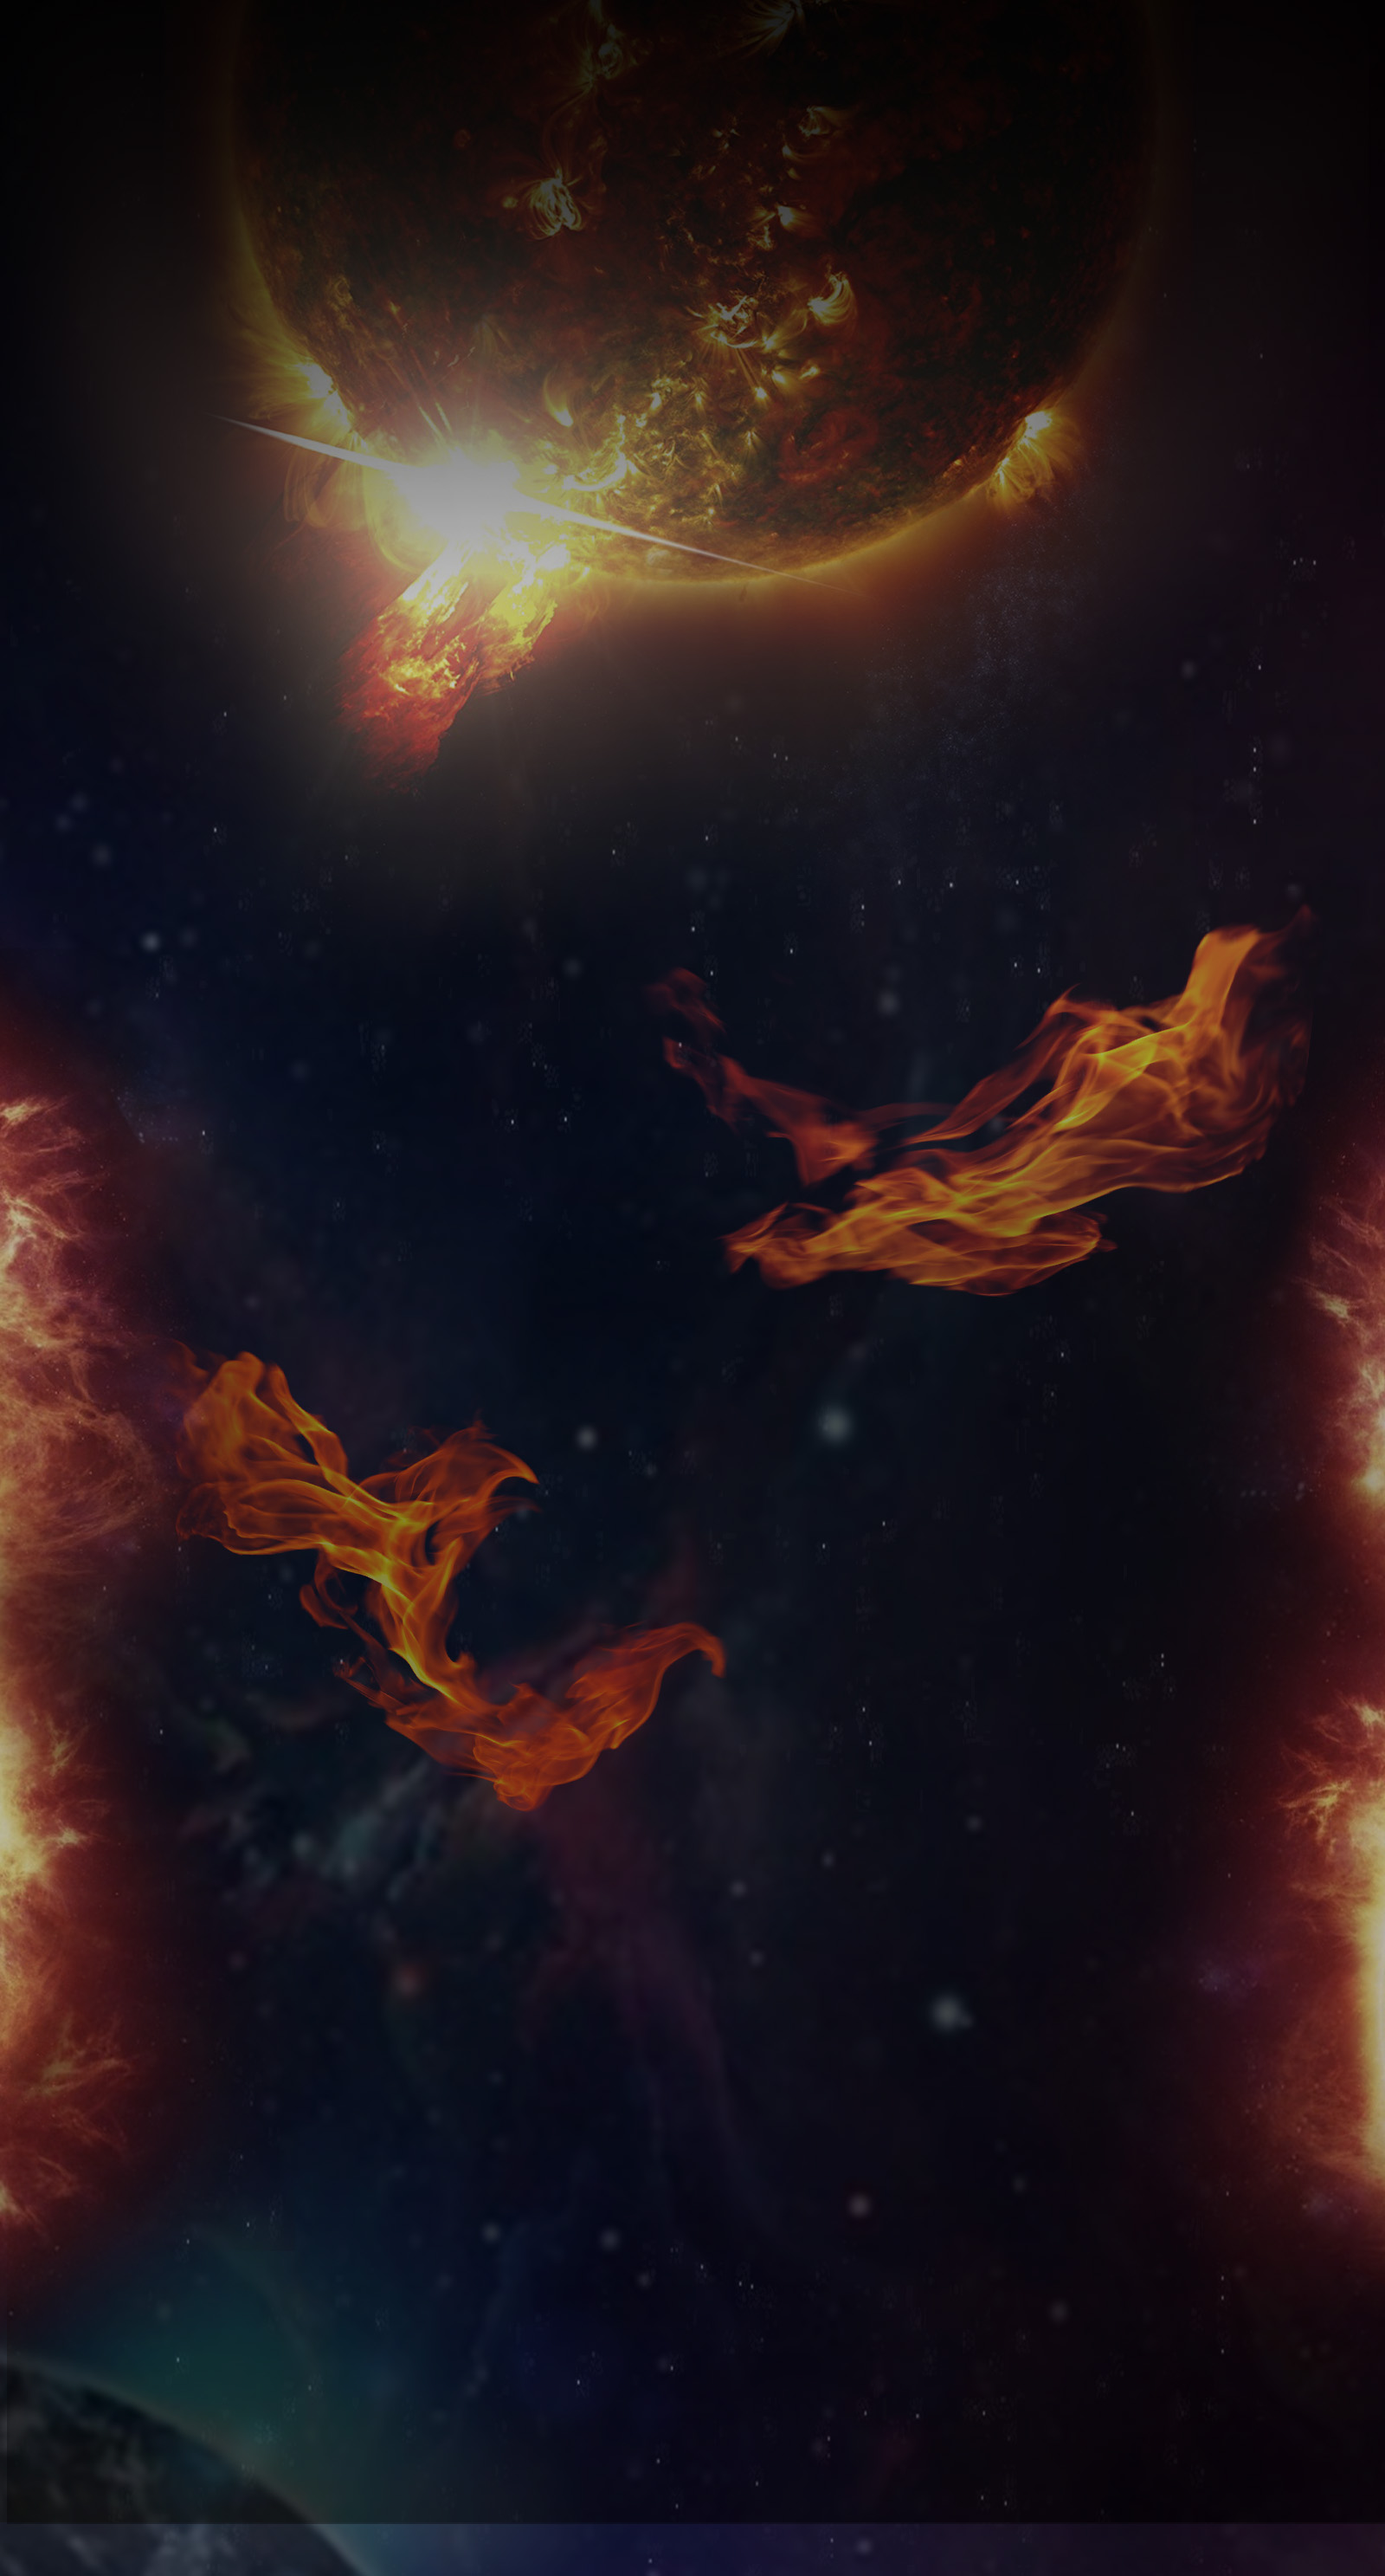
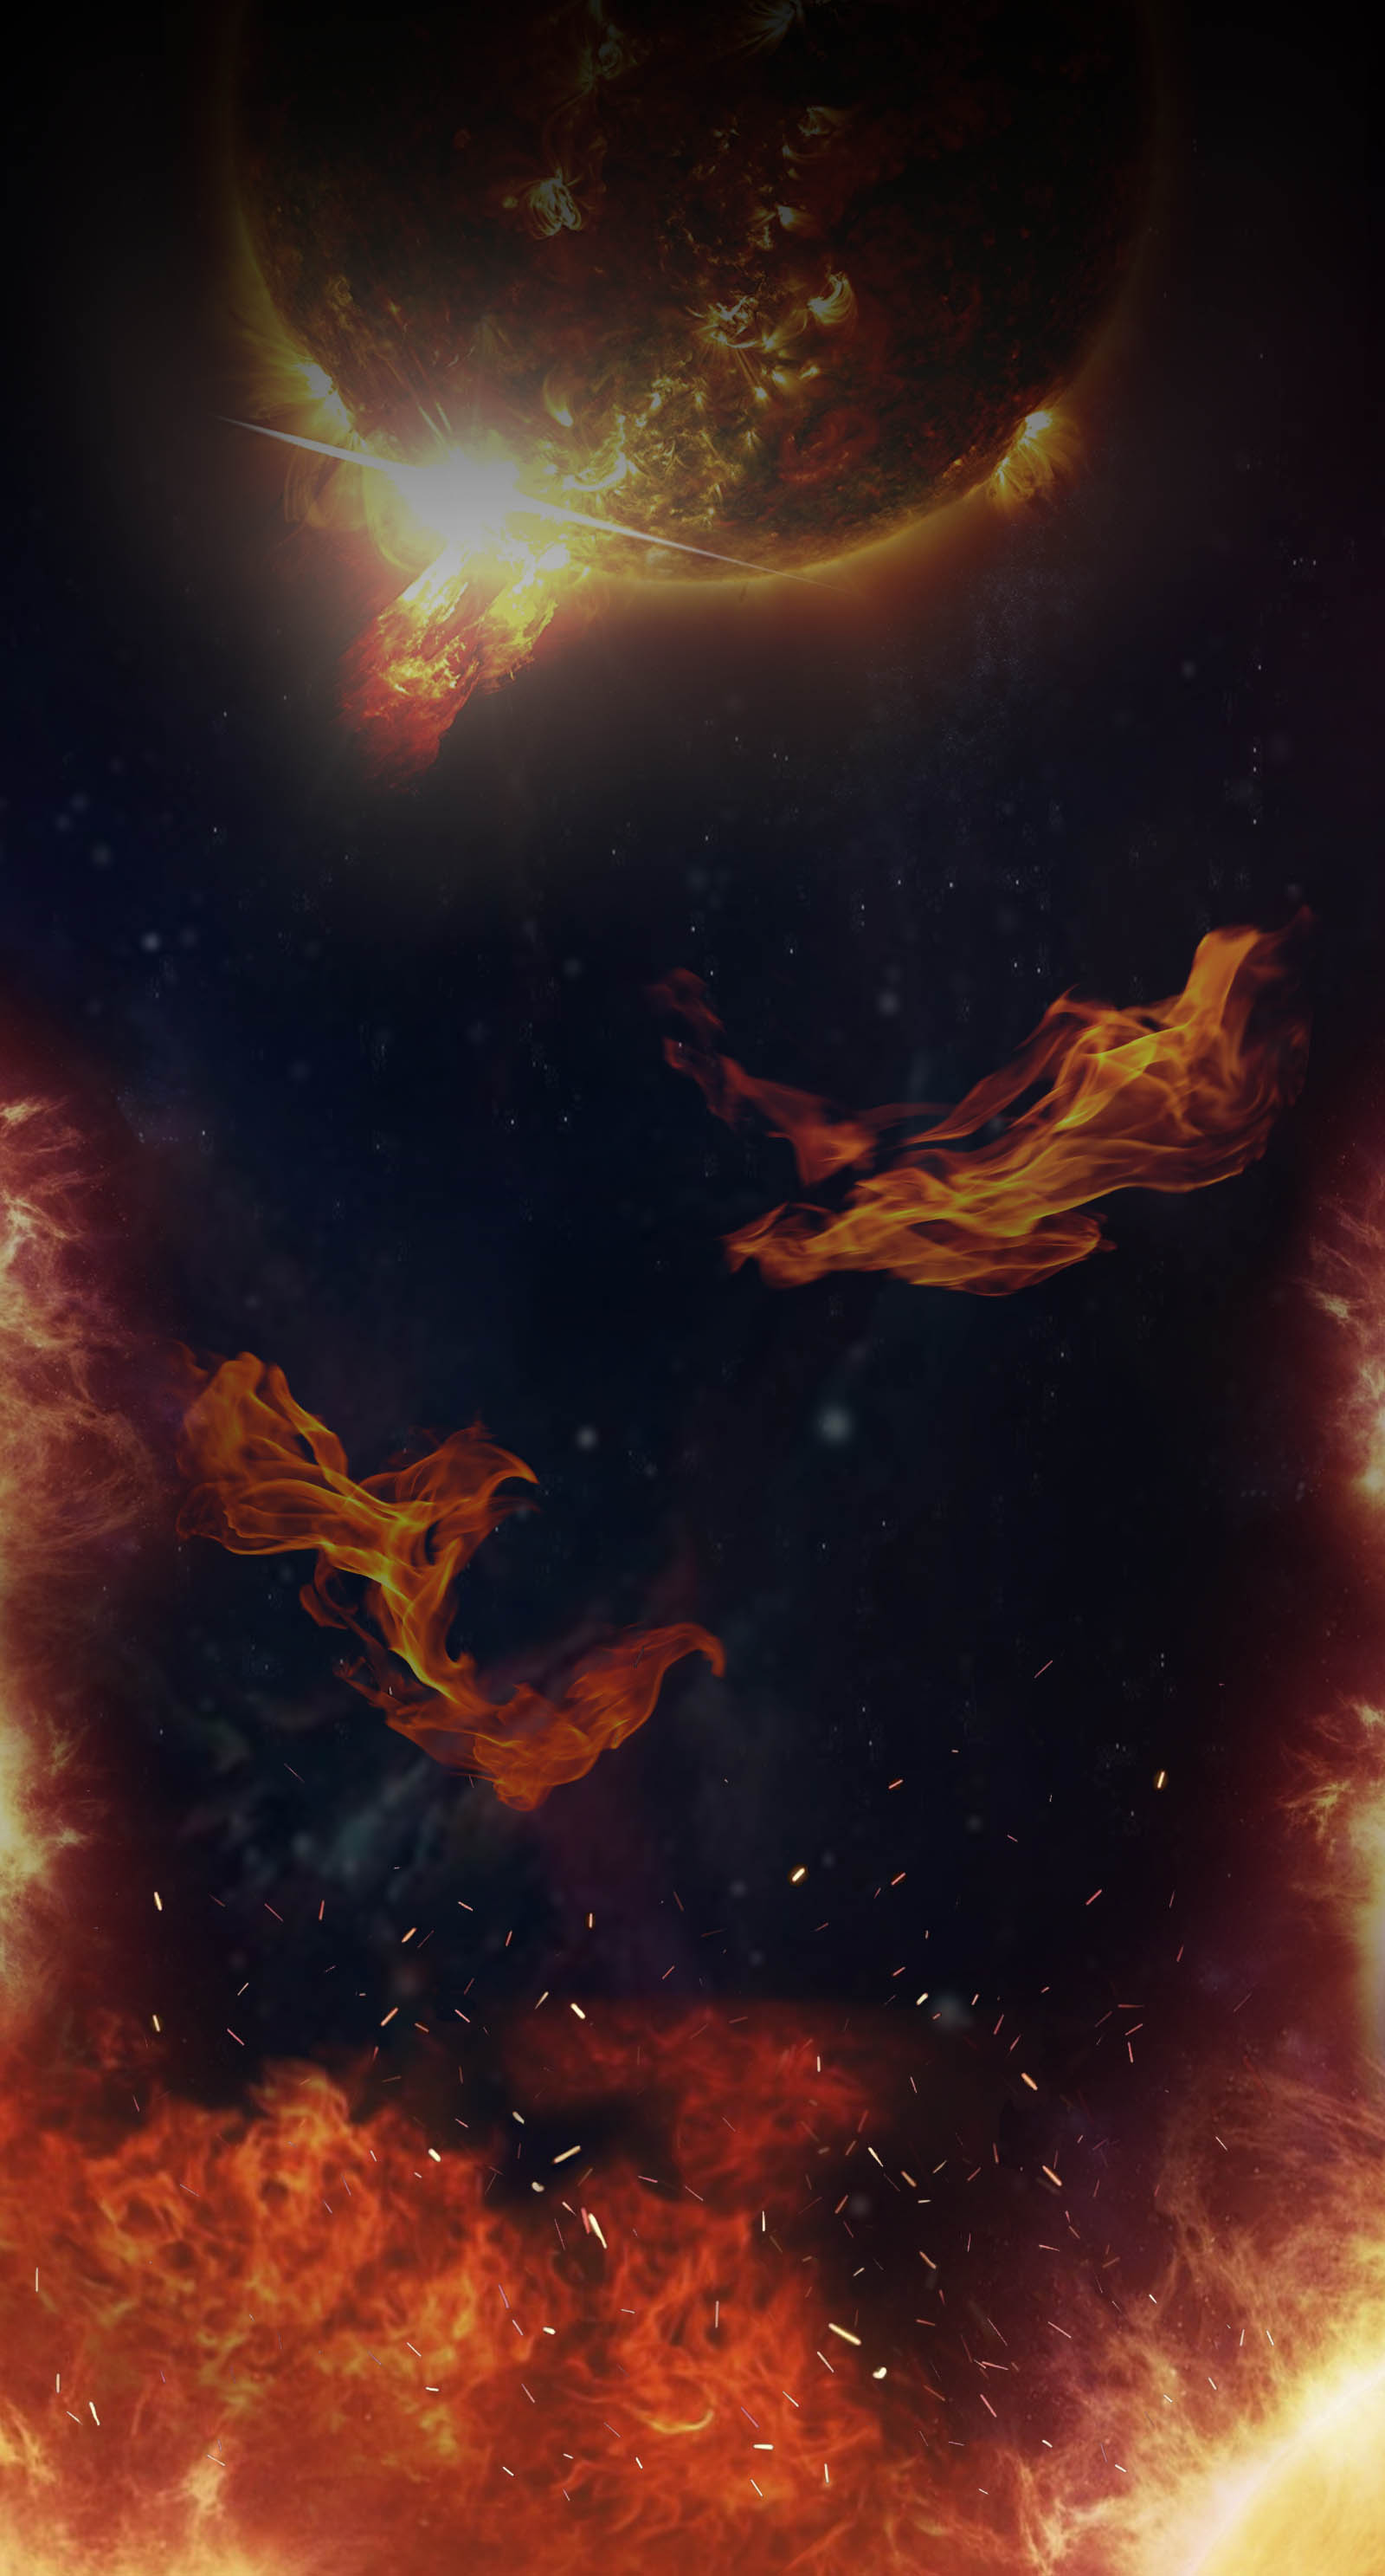
initial commit

Changed region(s): [[0.0, 0.7424, 1.0, 1.0]]

diff --git a/accets/style.css b/accets/style.css
@@ -1,6 +1,7 @@
 body {
 	background-attachment:fixed;
     margin: 0;
+	padding:0;
     line-height: 1.6;
     background: url('images/fon.jpg');
     background-size: cover;
@@ -482,6 +483,12 @@ header {
 }
 
 
+.tour-info {
+	margin-top: 65%;
+
+
+}
+
 .comment {
     text-align: center;
     font-weight: 300;
@@ -519,7 +526,7 @@ header {
     color: white;
     font-size: 30px;
     width: 90%;
-    margin-bottom: 170px;
+    margin-bottom: 120px;
     font-family: Montserrat;
     text-align: center;
     align-items: center;
@@ -743,6 +750,7 @@ header {
 
   .fire-section {
 	margin: 0 0;
+	padding: 0;
 	height: 20%;
 	display: flex;
 	flex-direction: column;
@@ -752,34 +760,27 @@ header {
   }
   
   .flame {
+	  padding: 0;
+	  margin: 0 ;
 		text-align: center;
-		width: 10em;
-		height: 9em;
-		font-size: 300px;
+		width: 13em;
+		height: 8em;
+		font-size: 200px;
 		position: relative;
 		z-index: 10;
-  }
-
-  .flame2 {
-	text-align: right;
-	width: 10em;
-	height: 12em;
-	font-size: 50px;
-	position: relative;
-
   }
   
   .flame span {
 	position: absolute;
-	width: 5em;
-	height: 7em;
+	width: 6em;
+	height: 5em;
 	background: radial-gradient(
 		orangered 20%,
 		rgba(255, 69, 0, 0) 70%
 	);
 	border-radius: 50%;
-	bottom: -19%;
-	left: calc((var(--n) - 1) * 5em / var(--particles));
+	bottom: -5%;
+	left: calc((var(--n) - 1) * 25em / var(--particles));
 	mix-blend-mode: screen;
 	animation: rise 1s ease-in infinite;
 	animation-delay: calc(var(--rnd) * 1s);
@@ -788,7 +789,7 @@ header {
   @keyframes rise {
 	from {
 		transform: translateY(0) scale(1);
-		filter: opacity(0);
+		filter: opacity(-1);
 	}
 	
 	25% {
@@ -797,14 +798,23 @@ header {
 	
 	to {
 		transform: translateY(-10em) scale(0);
-		filter: opacity(0);
+		filter: opacity(-1);
 	}
   }
 
 /*meeeeeeeeeeeeeedia*/
 
-  @media (max-width: 1300px) {
+  @media (max-width: 1680px) {
+	.slider__item_text2{
+	font-size: 30px;
+margin: 0 auto;
+width: 90vh;
+top: 20%; }
  
+.slider_item_text {
+			top: 12%;
+		}
+
 }
 
 @media (max-width: 1050px) {

diff --git a/index.html b/index.html
@@ -339,9 +339,7 @@
         <h6>Далее можно будет оформить заявку на этот тур.</h6>
     </div>
       <div class="flame">
-        <div class="flame2">
 
-        </div>
       </div>
 
     </div>
